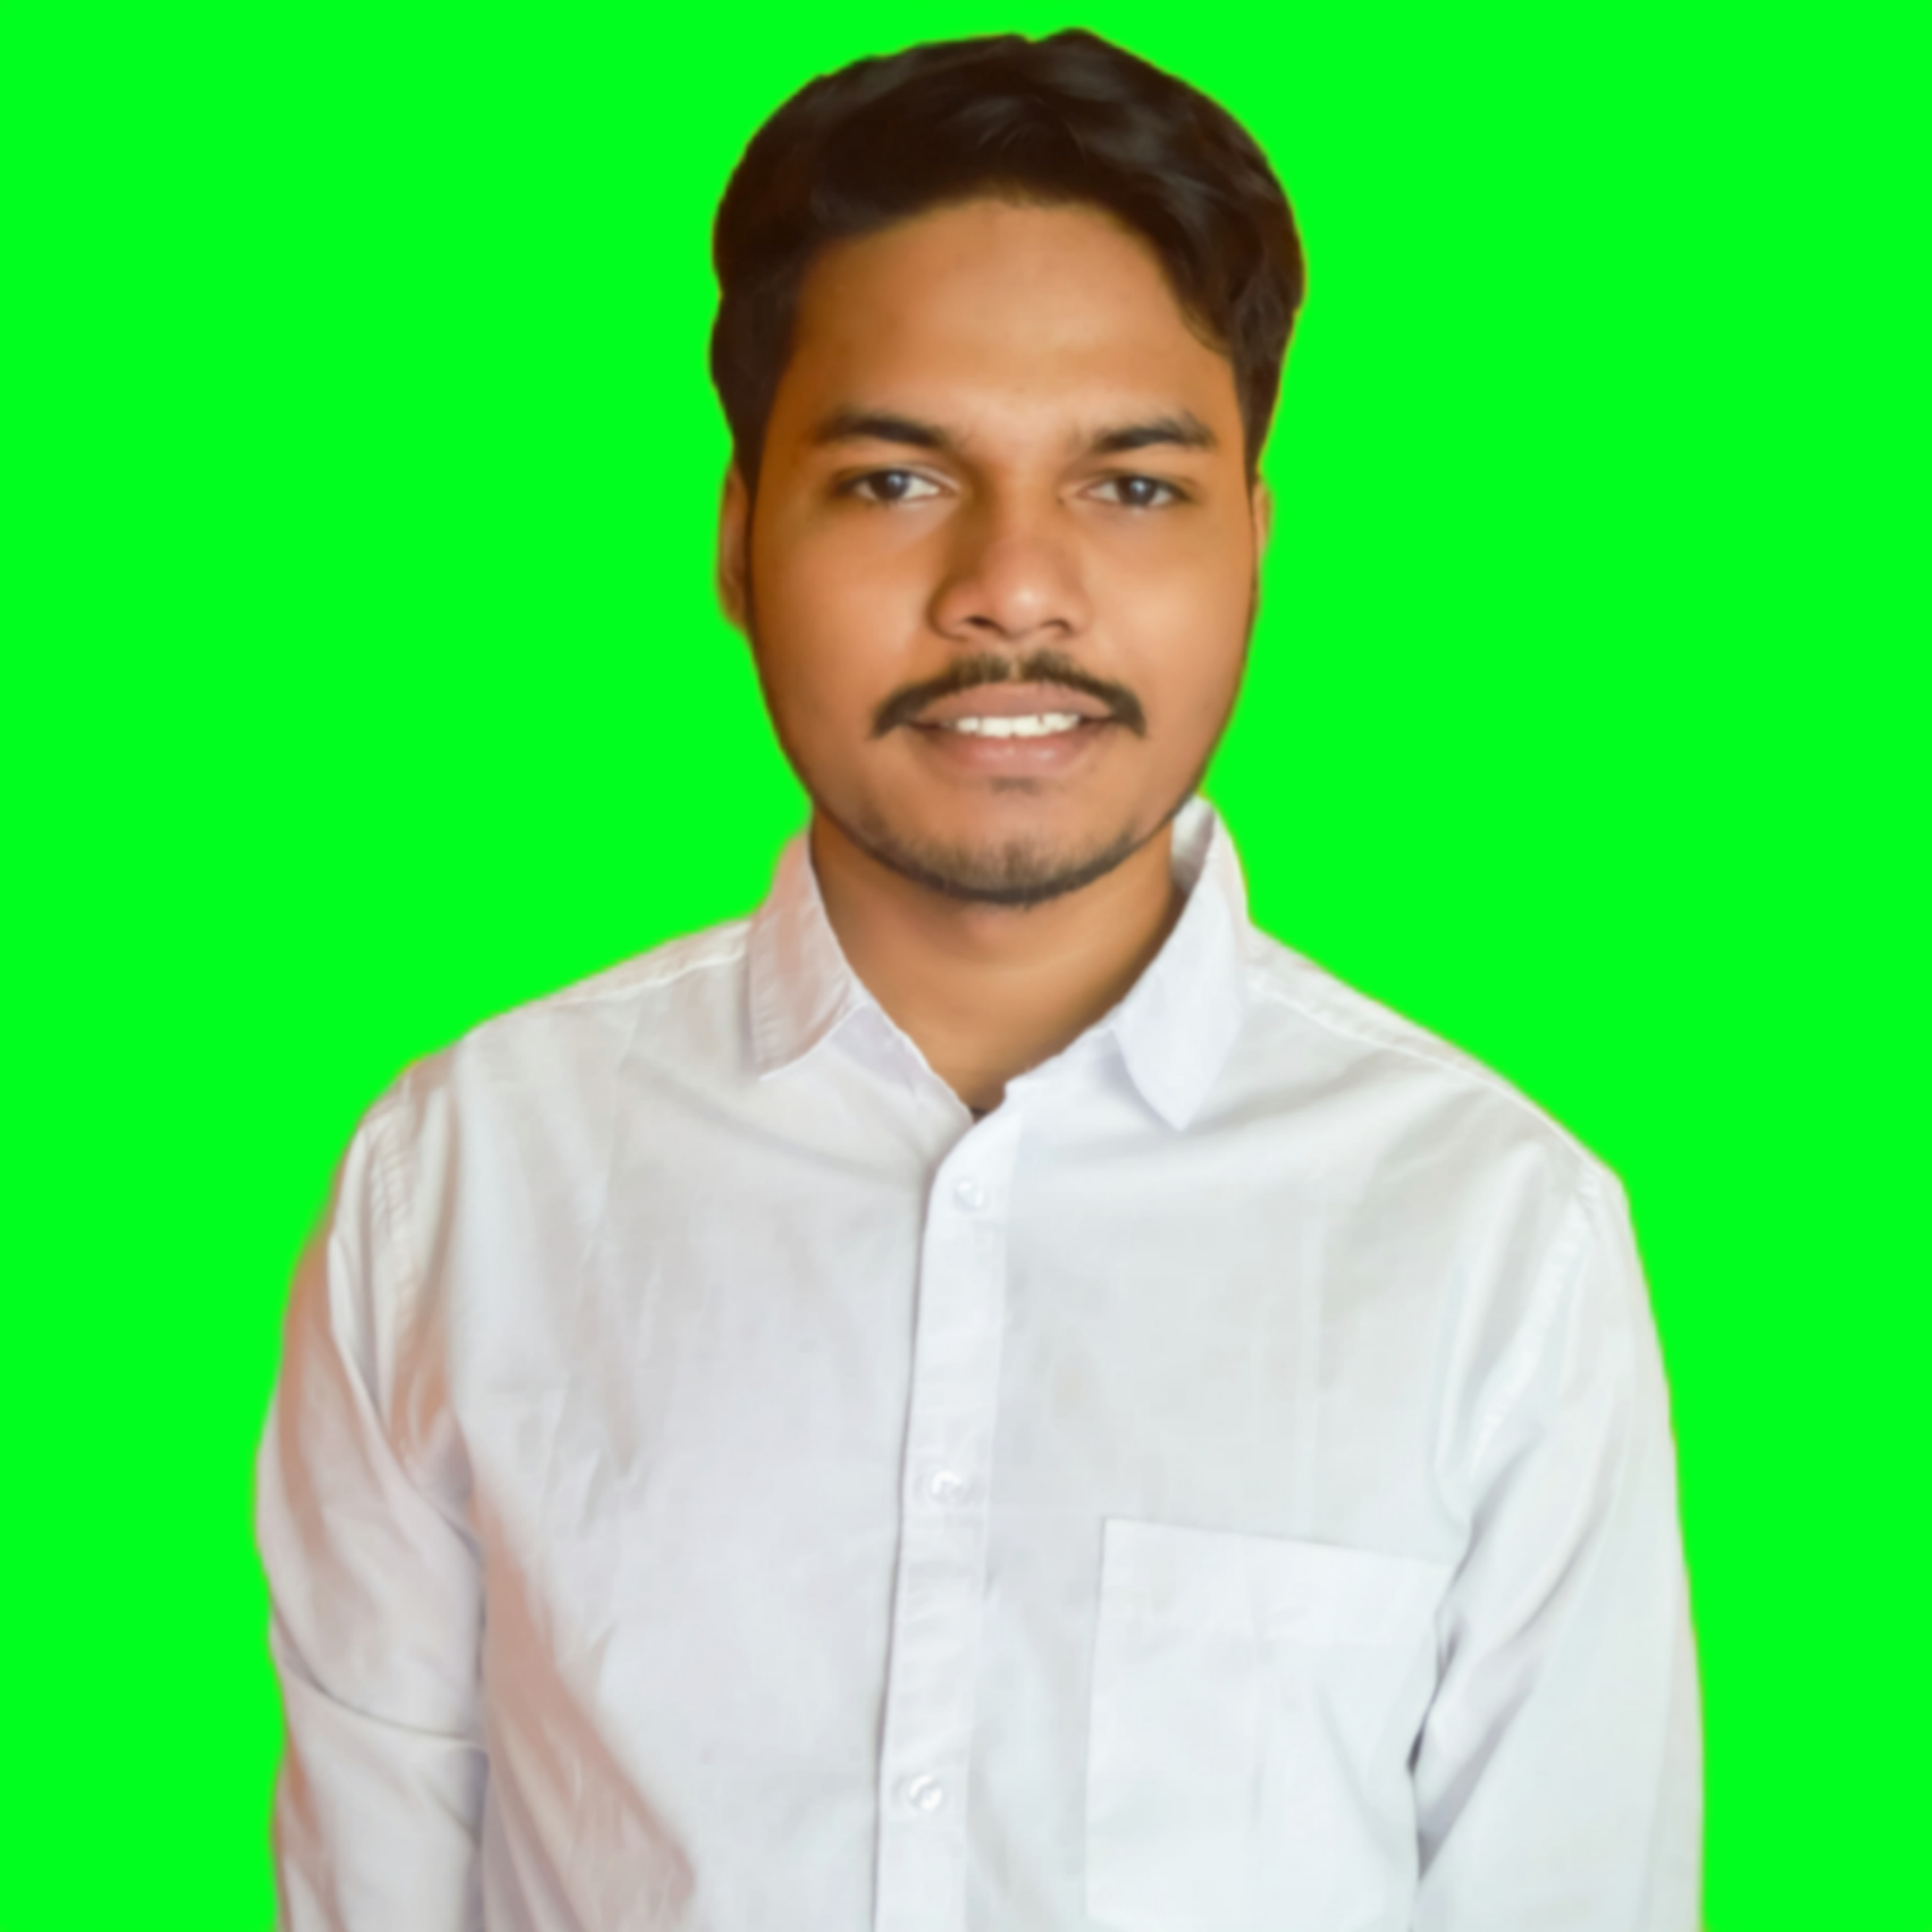
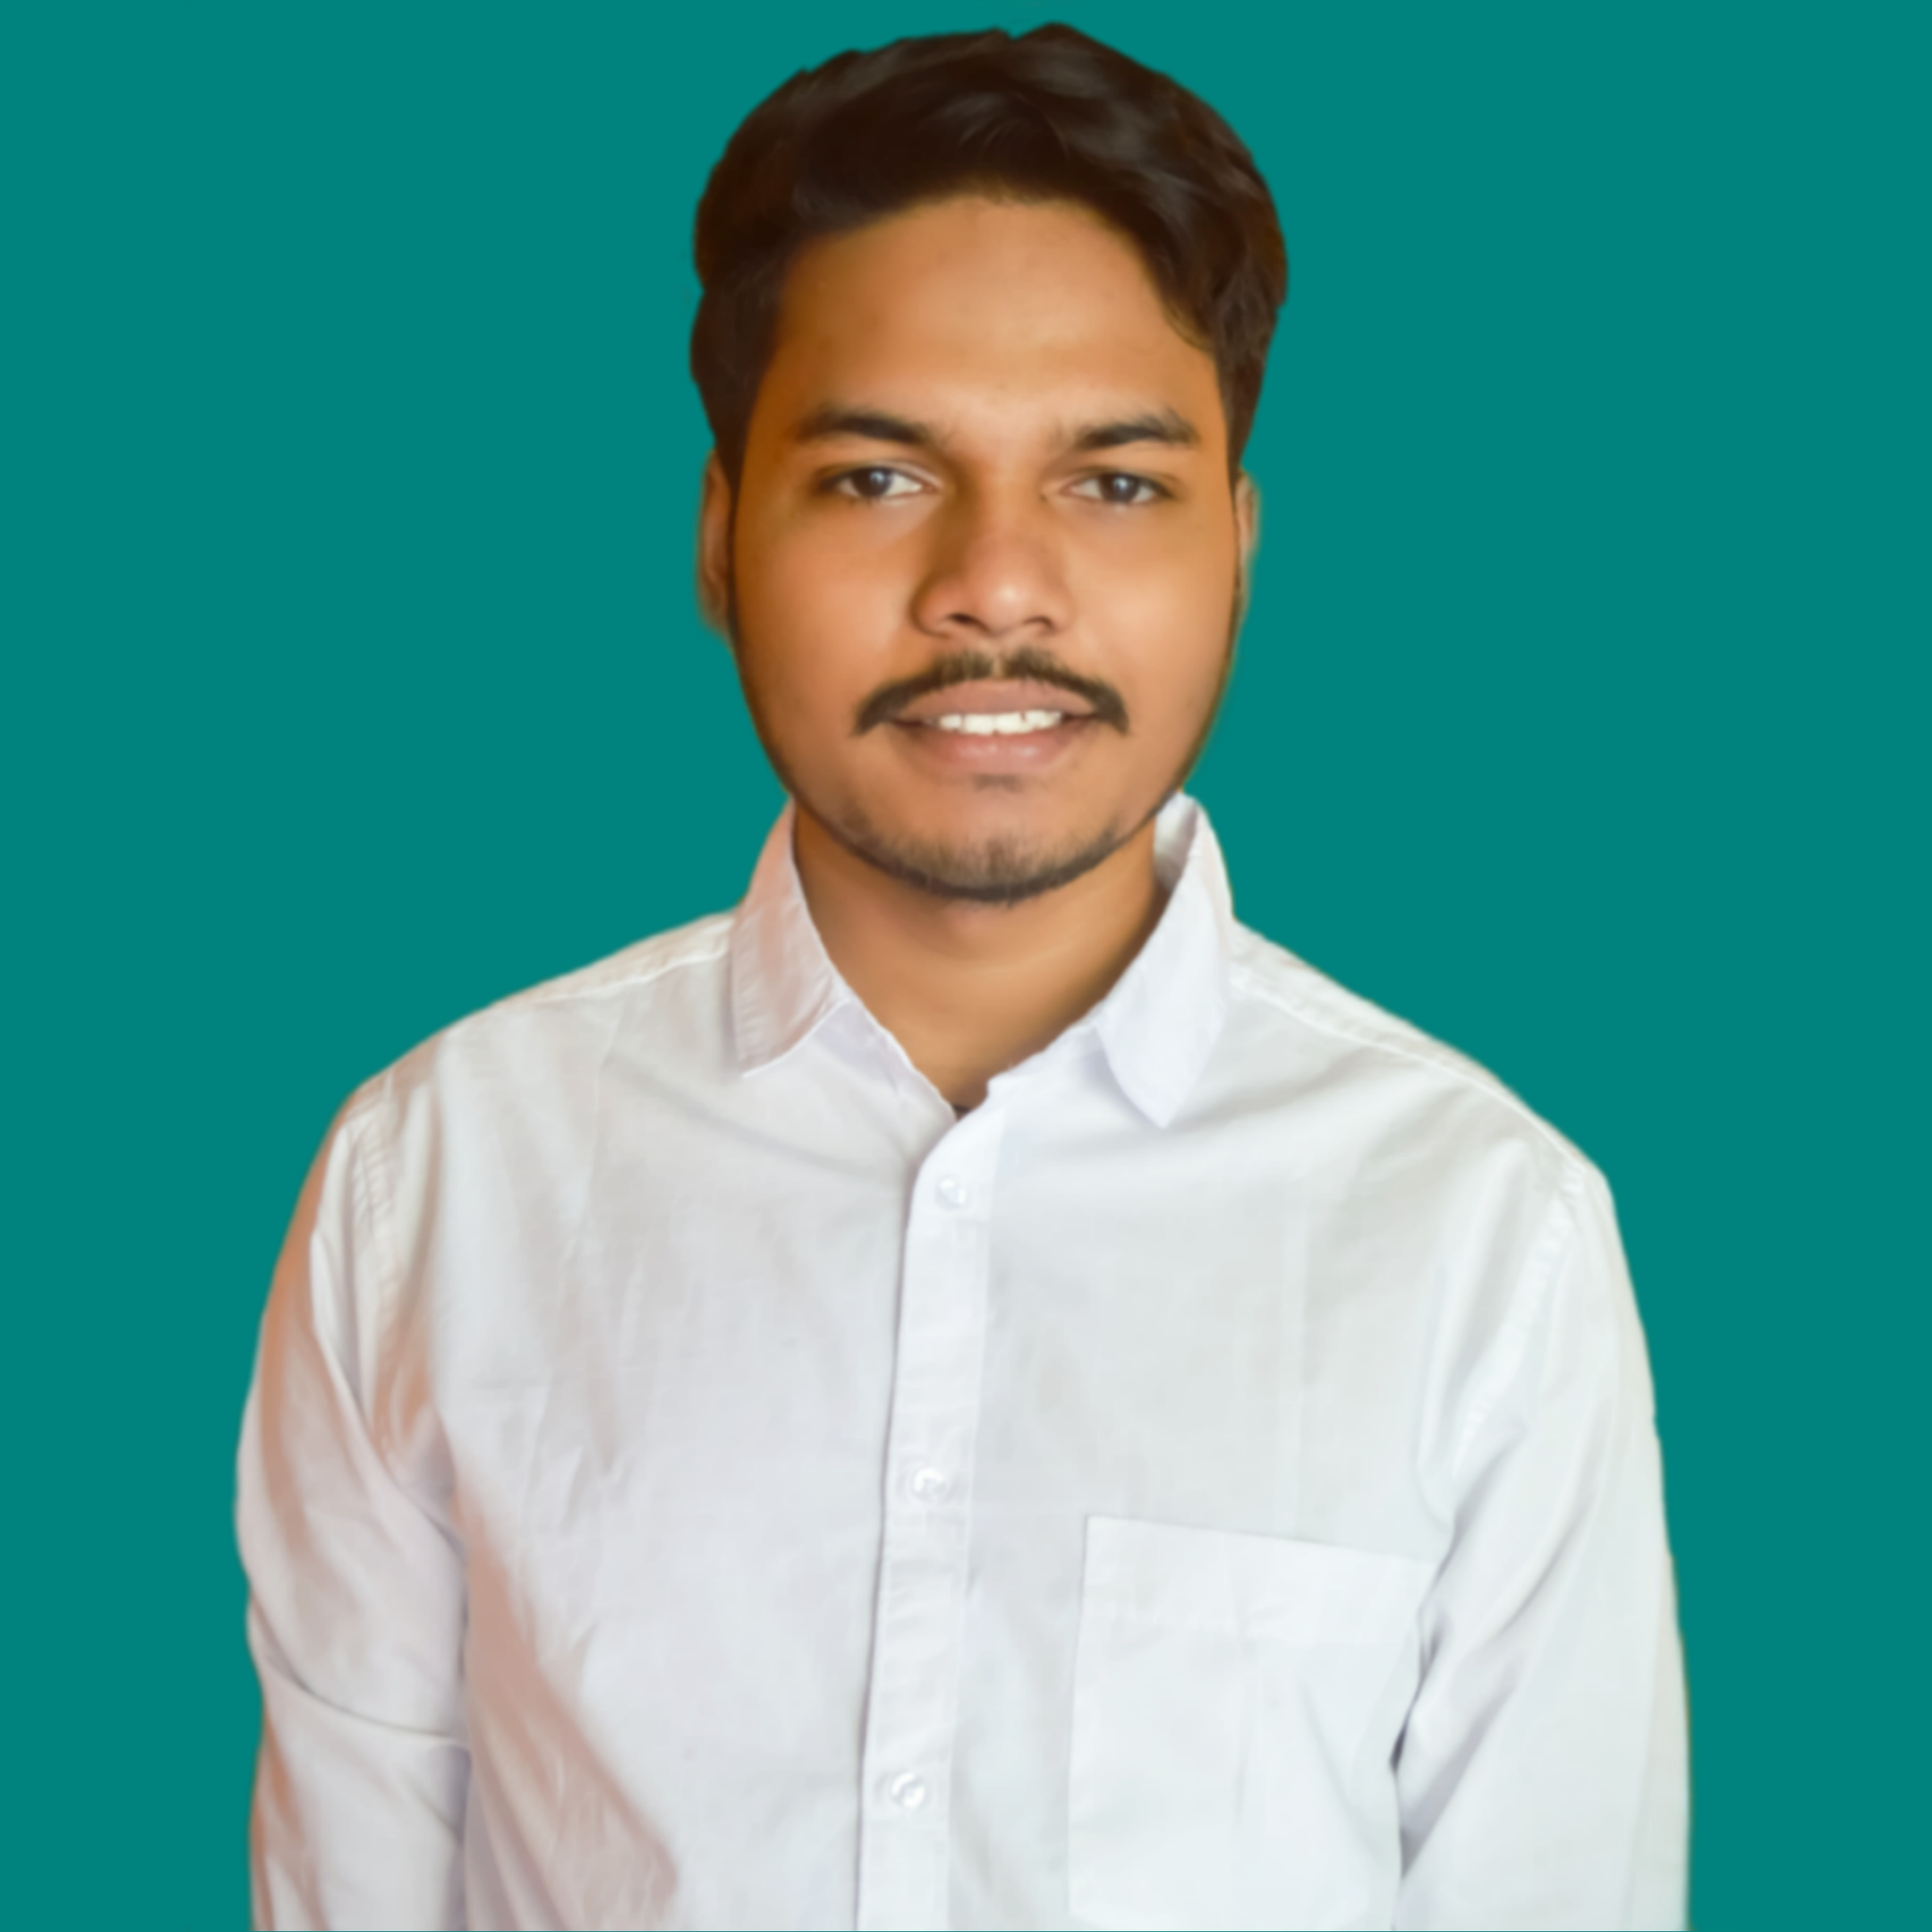
update resume in navbar

diff --git a/common.css b/common.css
@@ -117,7 +117,7 @@ section .title::after {
   bottom: -8px;
   left: 50%;
   font-size: 20px;
-  color: rgb(71, 255, 80);
+  color: #00827F;
   padding: 0 5px;
   background: #fff;
   transform: translateX(-50%);
@@ -142,7 +142,7 @@ section .title::after {
 }
 .navbar.sticky {
   padding: 15px 0;
-  background: rgb(71, 255, 80);
+  background: #00827F;
 }
 .navbar .max-width {
   display: flex;
@@ -156,7 +156,7 @@ section .title::after {
 }
 
 .navbar .logo a span {
-  color: rgb(71, 255, 80);
+  color: #00827F;
   transition: all 0.3s ease;
 }
 .navbar.sticky .logo a span {
@@ -175,7 +175,7 @@ section .title::after {
   transition: color 0.3s ease;
 }
 .navbar .menu li a:hover {
-  color: rgb(71, 255, 80);
+  color: #00827F;
 }
 .navbar.sticky .menu li a:hover {
   color: #fff;
@@ -199,7 +199,7 @@ section .title::after {
   bottom: 10px;
   text-align: center;
   line-height: 45px;
-  color: rgb(71, 255, 80);
+  color: #00827F;
   z-index: 9999;
   font-size: 30px;
   border-radius: 6px;
@@ -219,10 +219,12 @@ section .title::after {
 }
 
 /* home section styling */
+
 .home {
   display: flex;
-  background-image: url("./src/javawall.webp") no-repeat center;
-  background-color: #111;
+  /* background-color: #111; */
+  background-image: url("./src/bg2.jpg") ;
+  background-position: fixed ;
   height: 100vh;
   color: #fff;
   min-height: 500px;
@@ -250,12 +252,12 @@ section .title::after {
   margin: 5px 0;
 }
 .home .home-content .text-3 span {
-  color: rgb(71, 255, 80);
+  color: #00827F;
   font-weight: 500;
 }
 .home .home-content a {
   display: inline-block;
-  background: rgb(71, 255, 80);
+  background: #00827F;
   color: #fff;
   font-size: 25px;
   padding: 12px 36px;
@@ -266,7 +268,7 @@ section .title::after {
   transition: all 0.3s ease;
 }
 .home .home-content a:hover {
-  color: rgb(71, 255, 80);
+  color: #00827F;
   background: none;
 }
 
@@ -301,6 +303,38 @@ width: 50%; */
 
 /* services section styling */
 
+
+.serv-content1{
+   height: 160px;
+   width: 160px;
+   margin: auto;
+   border: red 1px solid;
+   cursor: pointer;
+   margin-top: -40px;
+   border-radius: 50%;
+}
+.res_png{
+   height: 100%;
+   width: 100%;
+   cursor: pointer;
+   /* position: fixed; */
+}
+.services1{
+  color: #fff;
+  background: #111;
+  margin: auto;
+  text-align: center;
+  height: 400px;
+}
+.services1 .title::before{
+  background: #fff;
+}
+/* .res_png{
+  height: 20%;
+  width: 60%;
+  border-radius: 40%;
+} */
+
 .services,
 .project {
   color: #fff;
@@ -327,7 +361,7 @@ width: 50%; */
   transition: all 0.3s ease;
 }
 .services .serv-content .card:hover {
-  background: rgb(71, 255, 80);
+  background: #00827F;
   color: #555;
   /* change*/
 }
@@ -386,7 +420,7 @@ width: 50%; */
 #resume-btn{
   width: 150px;
   margin-top: 1.2rem;
-  border: 1px solid rgb(71, 255, 80);
+  border: 1px solid #00827F;
   background-color:transparent;
   color: #fff;
   text-align: center;
@@ -394,7 +428,7 @@ width: 50%; */
 }
 #resume-btn:hover{
   cursor: pointer;
-  background-color:rgb(71, 255, 80) ;
+  background-color:#00827F ;
   color: #000;
   transition: 2s;
 }
@@ -450,7 +484,7 @@ width: 50%; */
 }
 .skill-1>img:hover{
   cursor:pointer;
-  background-color:rgb(71, 255, 80); 
+  background-color:#00827F; 
   border:none;
 }
 .skill-2{
@@ -475,7 +509,7 @@ width: 50%; */
 
 .skill-2:hover{
   cursor: pointer;
-  border: 3px solid rgb(71, 255, 80);
+  border: 3px solid #00827F;
 }
 .soft{
   margin-top: 2rem;
@@ -597,7 +631,7 @@ width: 50%; */
 width: 30%;
 height: 25%;
 margin-top: 2%;
-border: 1px solid rgb(71, 255, 80);
+border: 1px solid #00827F;
 background-color:transparent;
 color: #fff;
 text-align: center;
@@ -610,7 +644,7 @@ padding: 2%;
 }
 .resume-btn:hover{
 cursor: pointer;
-background-color:rgb(71, 255, 80) ;
+background-color:#00827F ;
 color: #000;
 transition: 2s;
 }
@@ -646,7 +680,7 @@ footer {
   text-align: center;
 }
 footer span a {
-  color: rgb(71, 255, 80);
+  color: #00827F;
   text-decoration: none;
 }
 footer span a:hover {
@@ -670,6 +704,7 @@ footer span a:hover {
   margin-top: 3%;
   padding: 1.5%;
   background-color: #000;
+  border-radius: 30px;
 
 }
 .cont-box-1{
@@ -808,7 +843,7 @@ footer span a:hover {
 }
 .skills-box:hover {
     /* background-color: #02225a; */
-   background-color: rgb(2, 166, 70);
+   background-color: #00827F;
 }
 
 .skills-box{

diff --git a/index.html b/index.html
@@ -23,17 +23,16 @@
     </div>
     <nav class="navbar">
         <div class="max-width">
-            <div class="logo"><a href="#"><span>Java</span>Developer</a></div>
+            <div class="logo"><a href="#"><span>PRO</span>TFOLIO</a></div>
             <ul class="menu">
                 <li><a href="#home" class="menu-btn">Home</a></li>
                 <li><a href="#about" class="menu-btn">About</a></li>
+                <li><a href="#services1" class="menu-btn">Resume</a></li>
                 <li><a href="#skills" class="menu-btn">Skills</a></li>
                 <li><a href="#education" class="menu-btn">Education</a></li>
                 <li><a href="#project" class="menu-btn">Projects</a></li>
                 <li><a href="#github-" class="menu-btn">Stats</a></li>
                 <li><a href="#contact" class="menu-btn">Contact</a></li>
-
-                
             </ul>
             <div class="menu-btn">
                 <i class="fas fa-bars"></i>
@@ -75,30 +74,10 @@
     </section>
 
     <!-- services section start -->
-    <section class="services" id="services">
-            <h2 class="title">My services</h2>
-            <div class="serv-content ">
-                <div class="card">
-                    <div class="box">
-                        <i class="fas fa-paint-brush"></i>
-                        <div class="text">Web Design</div>
-                        <p>Proficient in providing web designs.</p>
-                    </div>
-                </div>
-                <div class="card">
-                    <div class="box">
-                        <i class="fas fa-chart-line"></i>
-                        <div class="text">REST API</div>
-                        <p>Providing exceptional Rest API's.</p>
-                    </div>
-                </div>
-                <div class="card">
-                    <div class="box">
-                        <i class="fas fa-code"></i>
-                        <div class="text">System Design</div>
-                        <p>Proficient in Low Level System Designs</p>
-                    </div>
-                </div>
+    <section class="services1" id="services1">
+            <h2 class="title">My Resume</h2>
+            <div class="serv-content1">
+                   <img class="res_png" src="./src/resume_png.png" alt="">
                </div>
     </section>
 
@@ -177,7 +156,7 @@
 
      <section class="services" id="education">
         <h2 class="title">Education</h2>
-        <div class="serv-content ">
+        <div class="serv-content">
            
             <div class="card">
                 <div class="box">
@@ -340,7 +319,7 @@
                     <div class="cont-box-1 cont-box-b"><img src="./src/newmail.png" alt=""><h2><a href="mailto:rajeshpra673@gmail.com?subject=regarding hiring">e-Mail</a></h2></div>
                     <div class="cont-box-1 cont-box-c"><img src="./src/newlink.png"  alt=""><h2><a href="https://www.linkedin.com/in/rajesh-pradhan-8627b8231/" target="_blank">Linkedin</a></h2></div>
                     <div class="cont-box-1 cont-box-d"><img src="./src/newgit.png" alt="" ><h2><a href="https://github.com/raje2" target="_blank">Github</a> </h2></div>
-                    <div class="cont-box-1 cont-box-e"><img src="./src/newtwi.png" alt="" > <h2><a href="https://twitter.com/RajeshP542" target="_blank">Twitter</a></h2></div>
+                    <!-- <div class="cont-box-1 cont-box-e"><img src="./src/newtwi.png" alt="" > <h2><a href="https://twitter.com/RajeshP542" target="_blank">Twitter</a></h2></div> -->
                     <div class="cont-box-1 cont-box-f"><img src="./src/newresume.png" alt="" > <h2><a href="https://drive.google.com/uc?export=download&id=1iG4UeTVE5xDisbkM1MOIzS1s2OiObYCg" download="Vaibhav Ghawale Resume">Resume</a></h2></div>
                </div>
             </div>

diff --git a/common.js b/common.js
@@ -248,7 +248,12 @@ $(document).ready(function () {
 
   let my_cont_4=document.querySelector(".cont-box-f").addEventListener("click",contshow4)
 
+  function contshow5(){
+    window.open(href="https://drive.google.com/uc?export=download&id=1iG4UeTVE5xDisbkM1MOIzS1s2OiObYCg");
+    
+  }
 
+  let my_cont_5=document.querySelector(".serv-content1").addEventListener("click",contshow5)
 
   function Live11(){
     window.open('https://github.com/raje2/TheTeam_Monster_FirstPost', '_blank');
